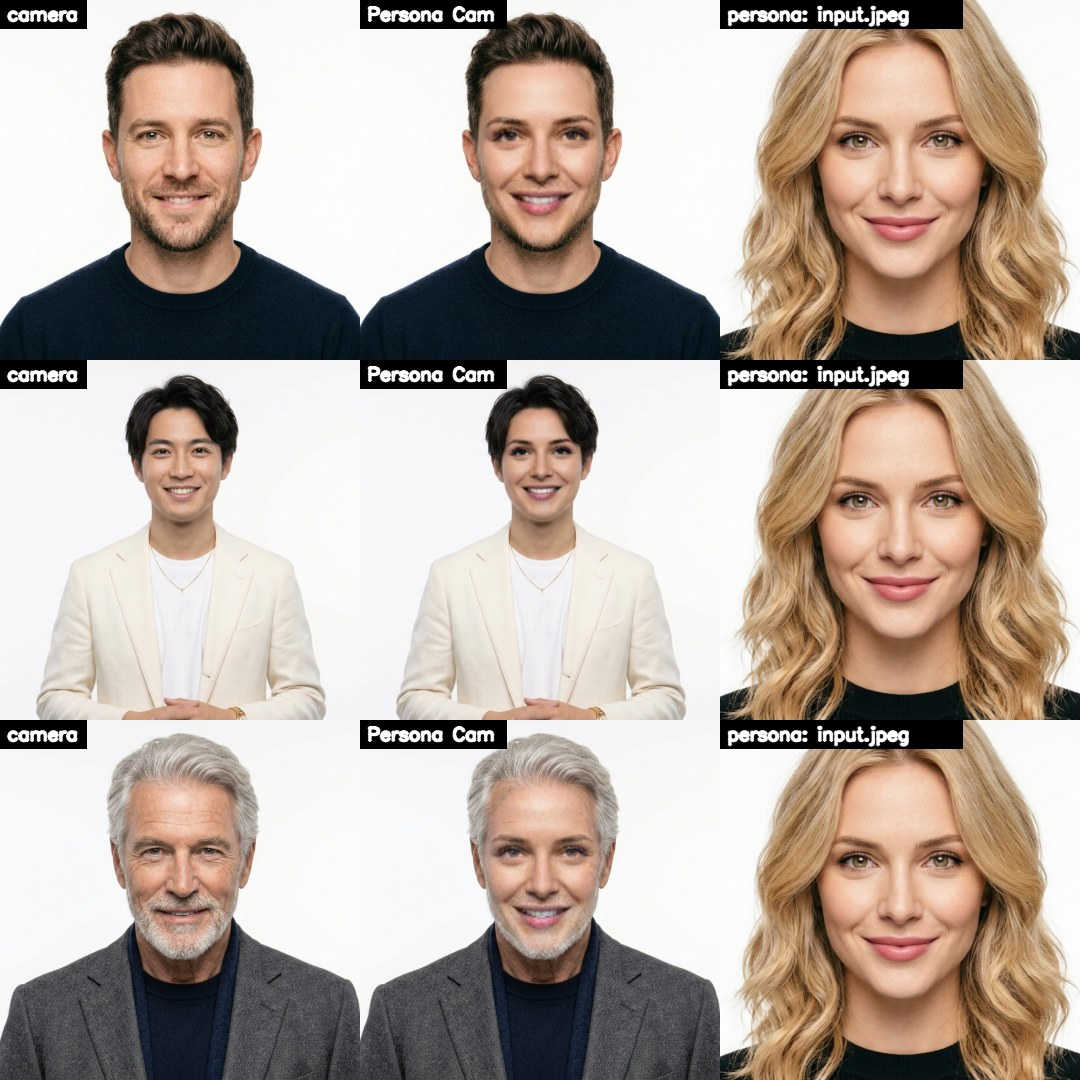
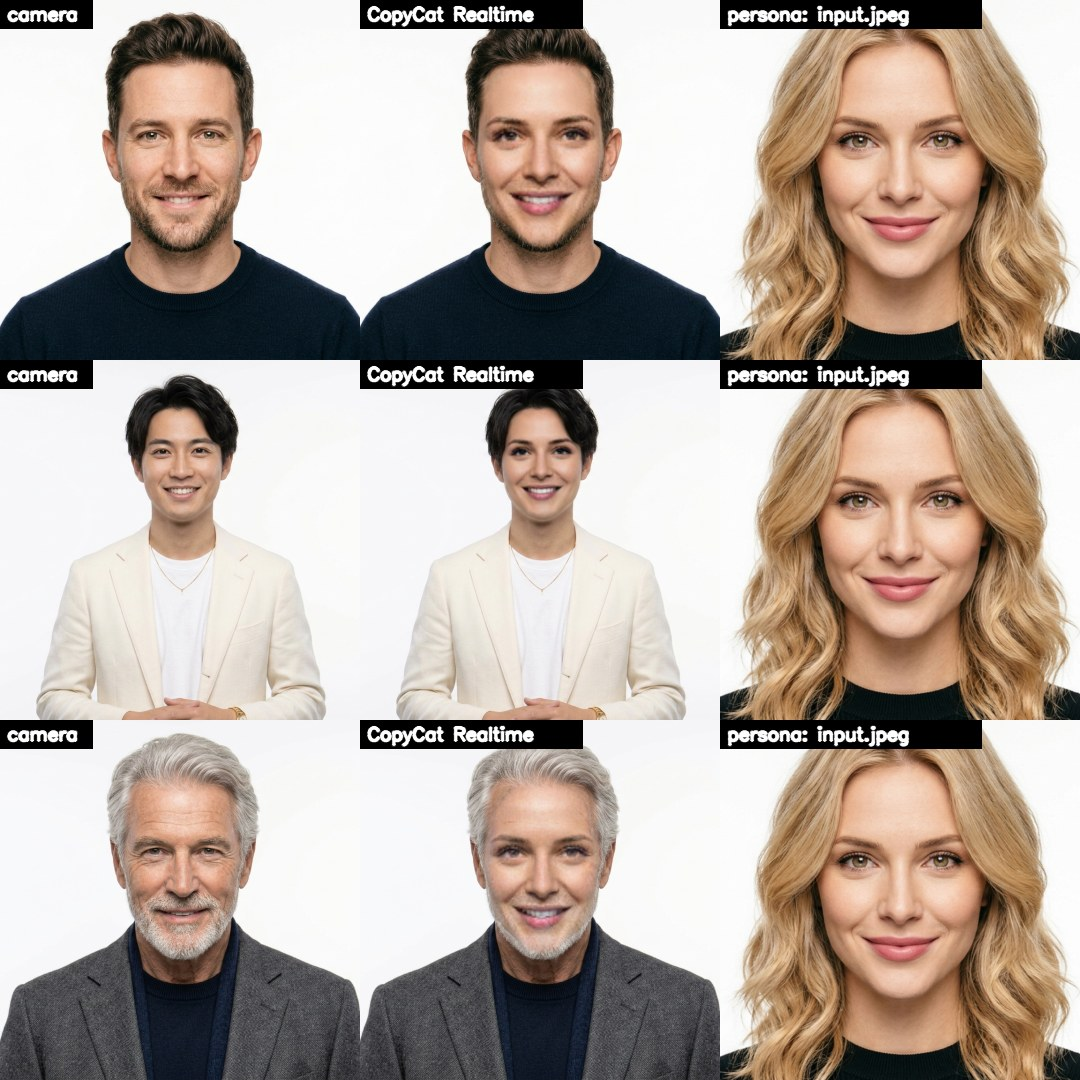
Title: CHANGELING over CopyCat Realtime (fits the sidebar); the sample sheet says CopyCat Realtime

diff --git a/window.py b/window.py
@@ -70,8 +70,10 @@ class Window:
 
         side = ctk.CTkScrollableFrame(self.root, width=300, corner_radius=12)
         side.grid(row=0, column=1, sticky="ns", padx=(7, 14), pady=14)
-        title = ctk.CTkFont(size=24, weight="bold")
-        ctk.CTkLabel(side, text=NAME, font=title, text_color=PINK).pack(anchor="w", padx=12, pady=(10, 0))
+        ctk.CTkLabel(side, text="CHANGELING", text_color="gray55",
+                     font=ctk.CTkFont(size=11, weight="bold")).pack(anchor="w", padx=12, pady=(10, 0))
+        ctk.CTkLabel(side, text="CopyCat Realtime", font=ctk.CTkFont(size=24, weight="bold"),
+                     text_color=PINK).pack(anchor="w", padx=12)
         ctk.CTkLabel(side, text="your expressions, someone else's face", text_color="gray60").pack(anchor="w", padx=12)
 
         self._section(side, "Persona")
